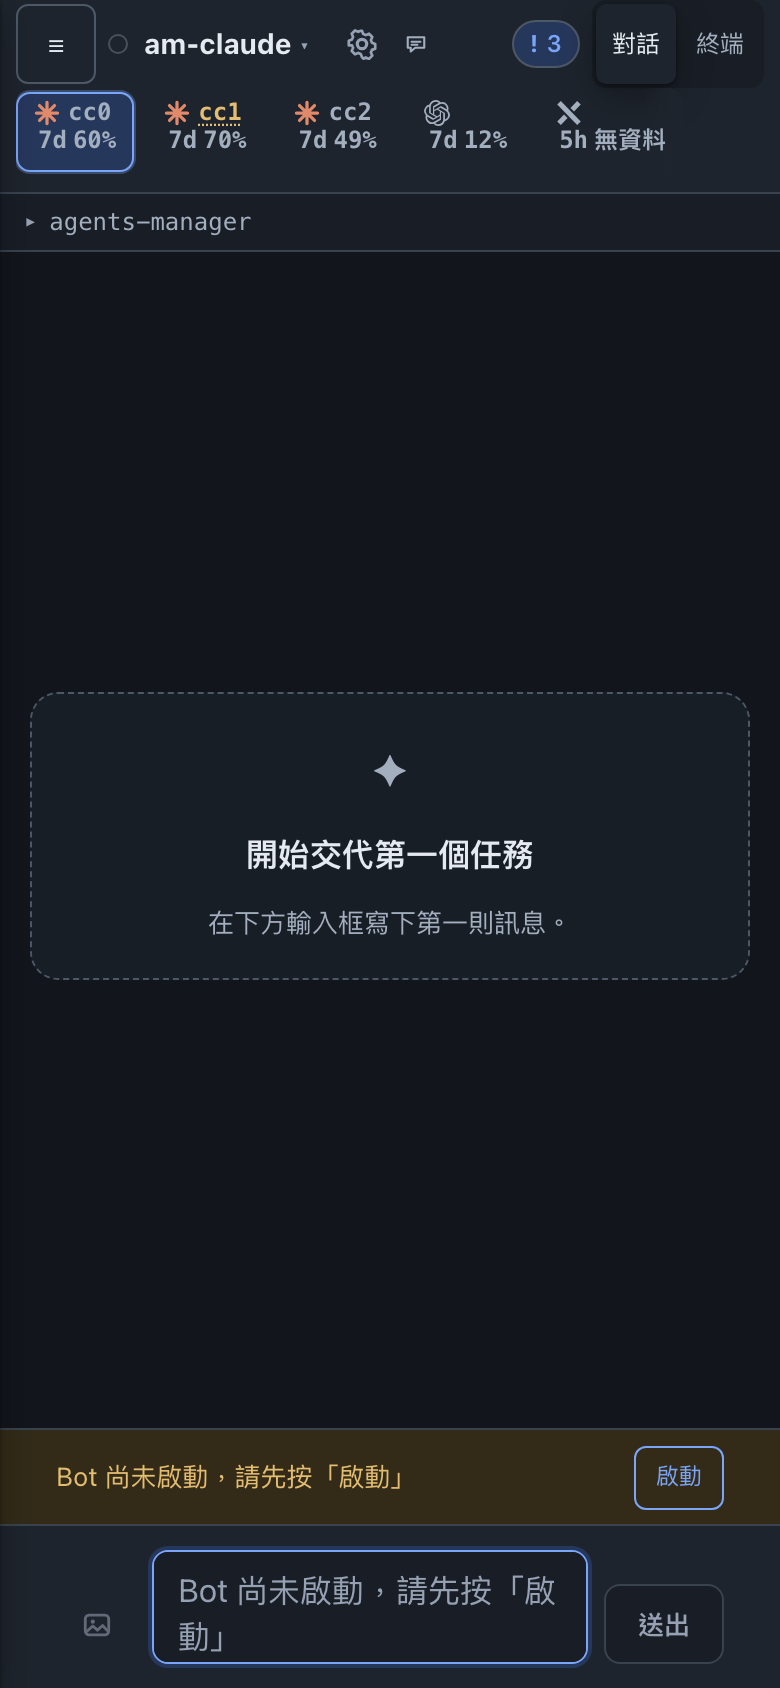
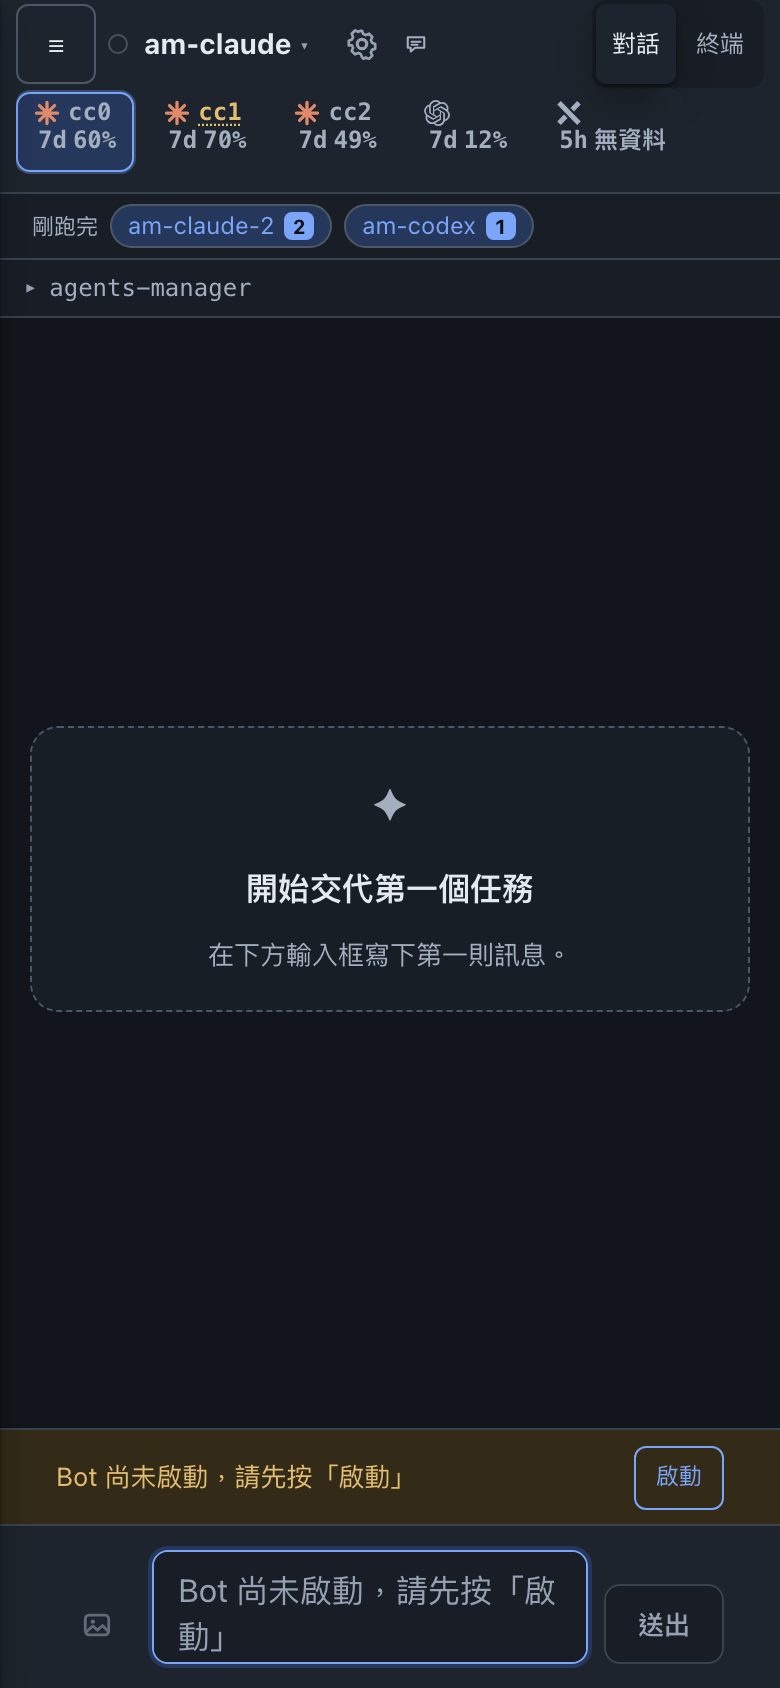
fix(web): 未讀晶片擠不進標題列，改成標題列下面自己一列
`.main-head` 是固定 60px 的單行 flex，燈號、模型、額度、分頁已經在搶那條線，
再塞一顆晶片只會把別人擠掉（1440 桌面上就已經看得出來）。搬到標題列下面自成
一列之後空間夠了，順勢改成一顆 bot 一個晶片並寫出名字——不必先猜「下一個」是誰。
沒有未讀時整個元素不存在，那一列不留空高度。

驗證：tsc --noEmit、oxlint（無新 warning）、bun run build；mock 截圖重拍
（桌面 1440／手機 390）在 docs/screenshots/unread-header/。

Changed region(s): [[0.2769, 0.4313, 0.7077, 0.5853], [0.0308, 0.1232, 0.7077, 0.1848], [0.6462, 0.0, 0.7385, 0.0616]]

diff --git a/web/src/components/UnreadChip.tsx b/web/src/components/UnreadChip.tsx
@@ -1,12 +1,13 @@
 /**
- * 標題列上的「有幾顆母 bot 做完了、還沒看」。
+ * 標題列**下面那一列**：「哪幾顆母 bot 做完了、還沒看」。
  *
  * 側欄本來就會在每一列上亮未讀（`Sidebar` 的 `.unread-turns`），但側欄在手機上是收起來的、
  * 在桌面上也可能被捲到看不見的位置。使用者真正想追的是「我丟出去的那幾件事，哪些回來了」，
- * 那是一個跨 bot 的問題，所以它要待在每個畫面都看得到的地方——標題列。
+ * 那是一個跨 bot 的問題，所以它要待在每個畫面都看得到的地方。
  *
- * 只算**母 bot**（`parent_bot_id === null`）：herdr 開出來的子 agent 是母 bot 自己的工人，
- * 它們回話是給母 bot 看的，算進來只會讓數字比使用者實際要處理的事情多。
+ * 為什麼不塞進標題列本身：`.main-head` 是固定 60px 的單行 flex，燈號、模型、額度、分頁
+ * 已經在搶那條線；再擠一顆進去只會把別人擠掉。自成一列反而放得下每一顆 bot 的名字。
+ * 一顆都沒有未讀時整列不佔高度（回傳 null）。
  */
 import { useMemo } from 'react'
 import { useStore } from '../store/store'
@@ -29,22 +30,23 @@ export function UnreadChip() {
   const selectedBotId = useStore((s) => s.selectedBotId)
   const selectBot = useStore((s) => s.selectBot)
   if (rows.length === 0) return null
-  const turns = rows.reduce((n, r) => n + r.n, 0)
-  // 點一下跳到下一顆——停在目前這顆的後面，連點就能一顆一顆掃過去。
-  const at = rows.findIndex((r) => r.id === selectedBotId)
-  const next = rows[(at + 1) % rows.length]
-  const names = rows.map((r) => `${r.name}（${r.n}）`).join('、')
+  // 標題列（固定 60px、擠滿了燈號／額度／分頁）放不下，所以自成一列掛在它下面：
+  // 一顆 bot 一個晶片，點下去就跳過去看——不用先猜「下一個」是誰。
   return (
-    <button
-      type="button"
-      className="unread-chip"
-      title={`${rows.length} 顆 Bot 做完了還沒看：${names}。點一下跳到 ${next.name}`}
-      aria-label={`${turns} 個回合已完成還沒看，跳到 ${next.name}`}
-      onClick={() => selectBot(next.id)}
-    >
-      <span className="unread-chip-bang" aria-hidden="true">!</span>
-      <span className="unread-chip-n">{turns > 99 ? '99+' : turns}</span>
-      <span className="unread-chip-name">{next.name}</span>
-    </button>
+    <div className="unread-bar" role="status" aria-live="polite">
+      <span className="unread-bar-label">剛跑完</span>
+      {rows.map((r) => (
+        <button
+          key={r.id}
+          type="button"
+          className={`unread-chip${r.id === selectedBotId ? ' current' : ''}`}
+          title={`${r.name} 有 ${r.n} 個回合已完成、還沒看過。點一下跳過去`}
+          onClick={() => selectBot(r.id)}
+        >
+          <span className="unread-chip-name">{r.name}</span>
+          <span className="unread-chip-n">{r.n > 99 ? '99+' : r.n}</span>
+        </button>
+      ))}
+    </div>
   )
 }

diff --git a/web/src/components/unreadChip.css b/web/src/components/unreadChip.css
@@ -1,11 +1,26 @@
-/* 標題列的未讀晶片（`UnreadChip`）。跟 `.unread-turns`（側欄）同一個色系，
-   但它是可以按的，所以有 hover / focus 態。 */
+/* 標題列底下的未讀列（`UnreadChip`）。沒有未讀時元素根本不存在，所以這一列不留空高度。 */
+.unread-bar {
+  display: flex;
+  align-items: center;
+  flex-wrap: wrap;
+  gap: 6px;
+  padding: 5px 16px;
+  border-bottom: 1px solid var(--border);
+  background: var(--bg-sunken);
+}
+
+.unread-bar-label {
+  font-size: 11px;
+  color: var(--text-dim);
+  white-space: nowrap;
+}
+
 .unread-chip {
   display: inline-flex;
   align-items: center;
-  gap: 4px;
-  max-width: 200px;
-  padding: 2px 8px;
+  gap: 5px;
+  max-width: 220px;
+  padding: 1px 8px;
   border: 1px solid var(--border-strong);
   border-radius: 999px;
   background: var(--accent-soft);
@@ -20,26 +35,25 @@
   border-color: var(--accent);
 }
 
-.unread-chip-bang {
-  font-weight: 700;
-  color: var(--accent);
+/* 正在看的那一顆（未讀還沒被清掉時，例如視窗在背景）不要看起來像「還要再點一下」。 */
+.unread-chip.current {
+  border-style: dashed;
 }
 
-.unread-chip-n {
-  font-variant-numeric: tabular-nums;
-  font-weight: 600;
-}
-
-/* 名字是「點下去會去哪」的提示，空間不夠時先犧牲它（數字才是重點）。 */
 .unread-chip-name {
   overflow: hidden;
   text-overflow: ellipsis;
   white-space: nowrap;
-  opacity: 0.8;
 }
 
-@media (max-width: 720px) {
-  .unread-chip-name {
-    display: none;
-  }
+.unread-chip-n {
+  flex: none;
+  padding: 0 4px;
+  border-radius: 4px;
+  background: var(--accent);
+  color: var(--accent-text);
+  font-size: 10px;
+  font-weight: 700;
+  line-height: 14px;
+  font-variant-numeric: tabular-nums;
 }

diff --git a/web/src/components/ChatPanel.tsx b/web/src/components/ChatPanel.tsx
@@ -1198,9 +1198,9 @@ export function ChatPanel({ onOpenSidebar }: { onOpenSidebar: () => void }) {
           </button>
           <span className="main-status">未選擇 Bot</span>
           <span className="spacer" />
-          <UnreadChip />
           <QuotaStrip />
         </div>
+        <UnreadChip />
         <EmptyState title="尚未選擇 Bot" icon="◎">
           從左側選擇一個 Bot，或先新增 Project 與 Bot。
         </EmptyState>
@@ -1299,7 +1299,6 @@ export function ChatPanel({ onOpenSidebar }: { onOpenSidebar: () => void }) {
             </span>
           </button>
         ) : null}
-        <UnreadChip />
         <QuotaStrip focusKind={bot.kind} focusIdentity={bot.identity} host={hostName} />
         {/* 遠端才掛：本機的數字固定在左上角，這裡再放一次只是重複。 */}
         <MemBadge host={hostName} onlyRemote />
@@ -1335,6 +1334,7 @@ export function ChatPanel({ onOpenSidebar }: { onOpenSidebar: () => void }) {
           ) : null}
         </div>
       </div>
+      <UnreadChip />
       {runDebugOpen ? <RunDebugBar botId={botId} /> : null}
       <ToolsHint focusHost={hostName} focusKinds={[bot.kind]} />
       {/* The repo chip and the status bar were a row each; neither fills one, so they share.

diff --git a/web/src/components/TeamPanel.tsx b/web/src/components/TeamPanel.tsx
@@ -1068,7 +1068,6 @@ export function TeamPanel({ teamId, onOpenSidebar }: { teamId: string; onOpenSid
         </div>
         <span className="spacer" />
         <BudgetMeter teamId={teamId} />
-        <UnreadChip />
         <QuotaStrip focusKind={memberKind} host={project?.host ?? LOCAL_HOST} />
         {/* 遠端才掛：本機的數字固定在左上角。 */}
         <MemBadge host={project?.host ?? LOCAL_HOST} onlyRemote />
@@ -1202,6 +1201,7 @@ export function TeamPanel({ teamId, onOpenSidebar }: { teamId: string; onOpenSid
           </HeadMoreMenu>
         </div>
       </div>
+      <UnreadChip />
 
       <div className="team-subhead">
         {/* 交付方式是「建立時就決定的設定」，不是會變的狀態，所以從標題列搬到這裡——

diff --git a/web/src/components/TeamLaunchPanel.tsx b/web/src/components/TeamLaunchPanel.tsx
@@ -342,7 +342,6 @@ export function TeamLaunchPanel({
         <span className="spacer" />
         {/* 組隊是最花額度的一個動作（多個成員各自跑），所以決定按不按「建立並啟動」之前，
             這裡就要看得到剩多少——跟聊天頁、群組頁、team 頁同一條 `.quota-strip`。 */}
-        <UnreadChip />
         <QuotaStrip host={host} />
         <div className="head-actions">
           <button type="button" className="mini-btn" onClick={closeTeamLaunch} title="不建立 team，回到原本的畫面">
@@ -350,6 +349,7 @@ export function TeamLaunchPanel({
           </button>
         </div>
       </div>
+      <UnreadChip />
 
       <div className="team-launch">
         <section className="team-issue">

diff --git a/web/src/components/GroupChatPanel.tsx b/web/src/components/GroupChatPanel.tsx
@@ -601,7 +601,6 @@ export function GroupChatPanel({ projectId, onOpenSidebar }: { projectId: string
         <MemberStrip projectId={projectId} />
         <span className="spacer" />
         <ToolsHintIcon />
-        <UnreadChip />
         <QuotaStrip host={hostName} />
         {/* 遠端才掛：本機的數字固定在左上角，這裡再放一次只是重複。 */}
         <MemBadge host={hostName} onlyRemote />
@@ -612,6 +611,7 @@ export function GroupChatPanel({ projectId, onOpenSidebar }: { projectId: string
           </button>
         </div>
       </div>
+      <UnreadChip />
       <ToolsHint focusHost={hostName} focusKinds={memberKinds} />
       {memberCount === 0 ? (
         <EmptyState
